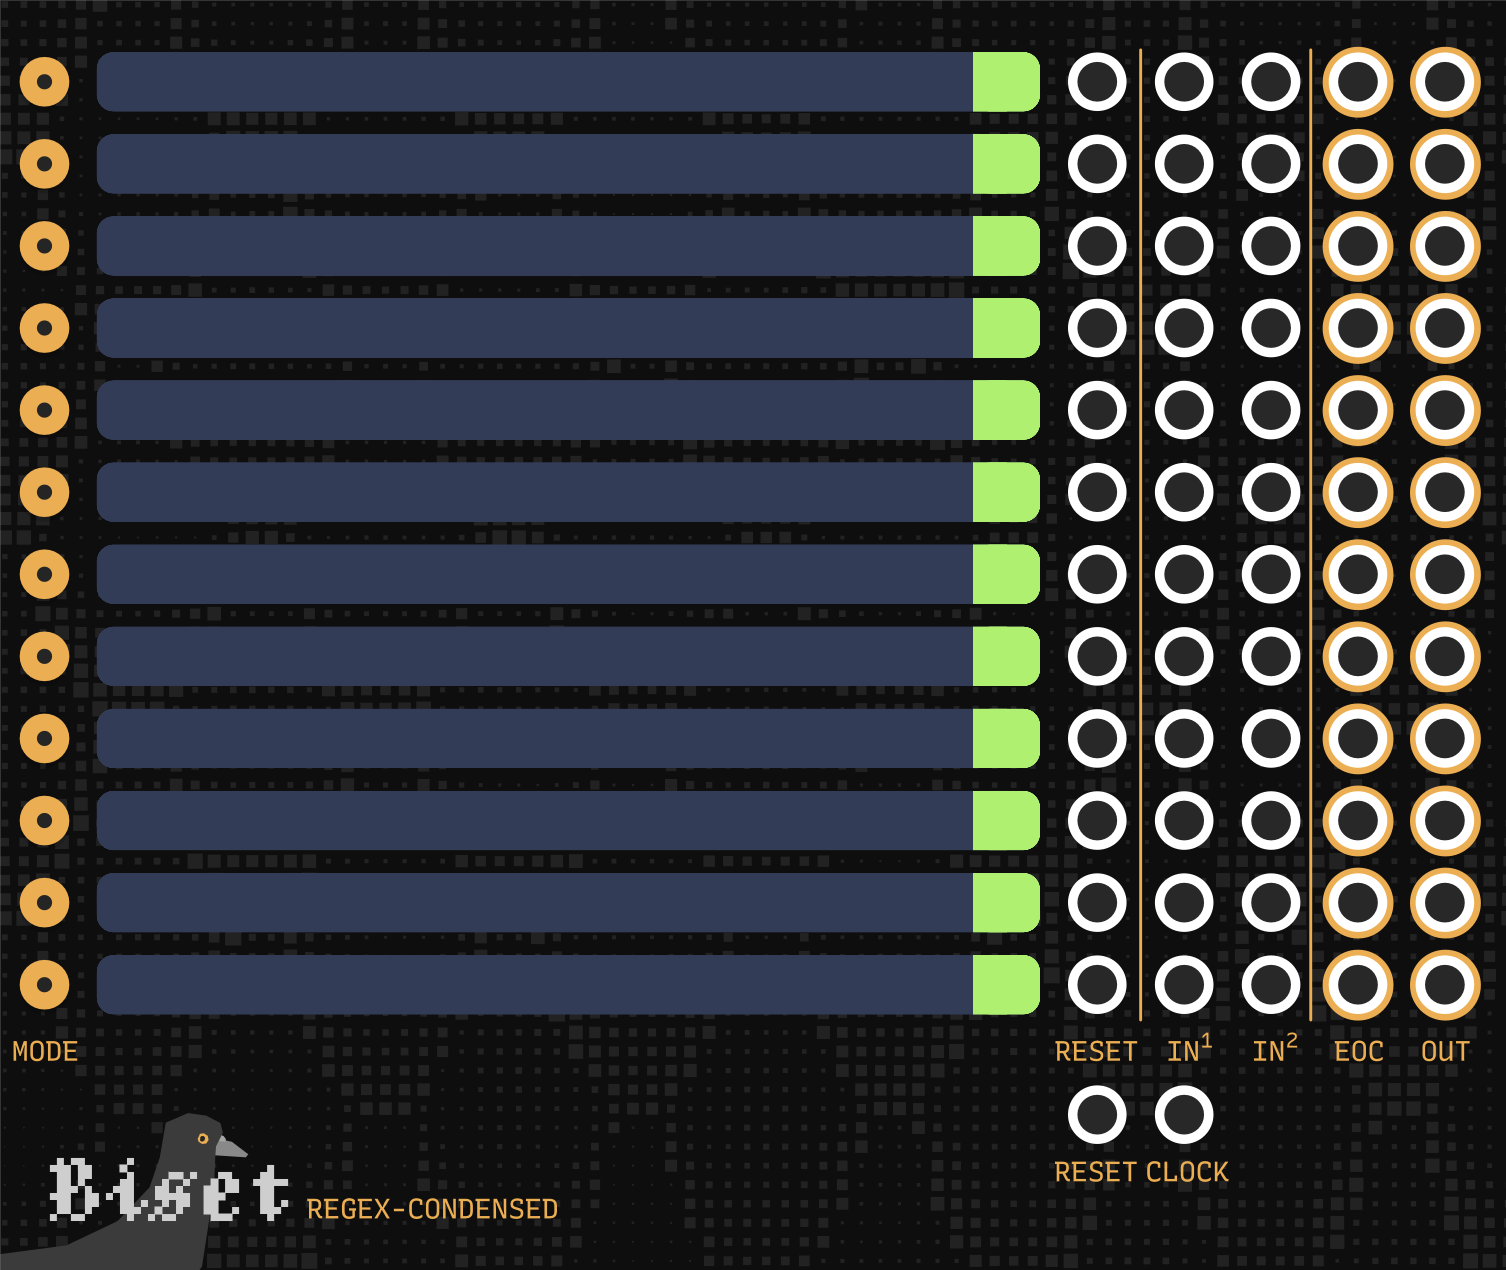
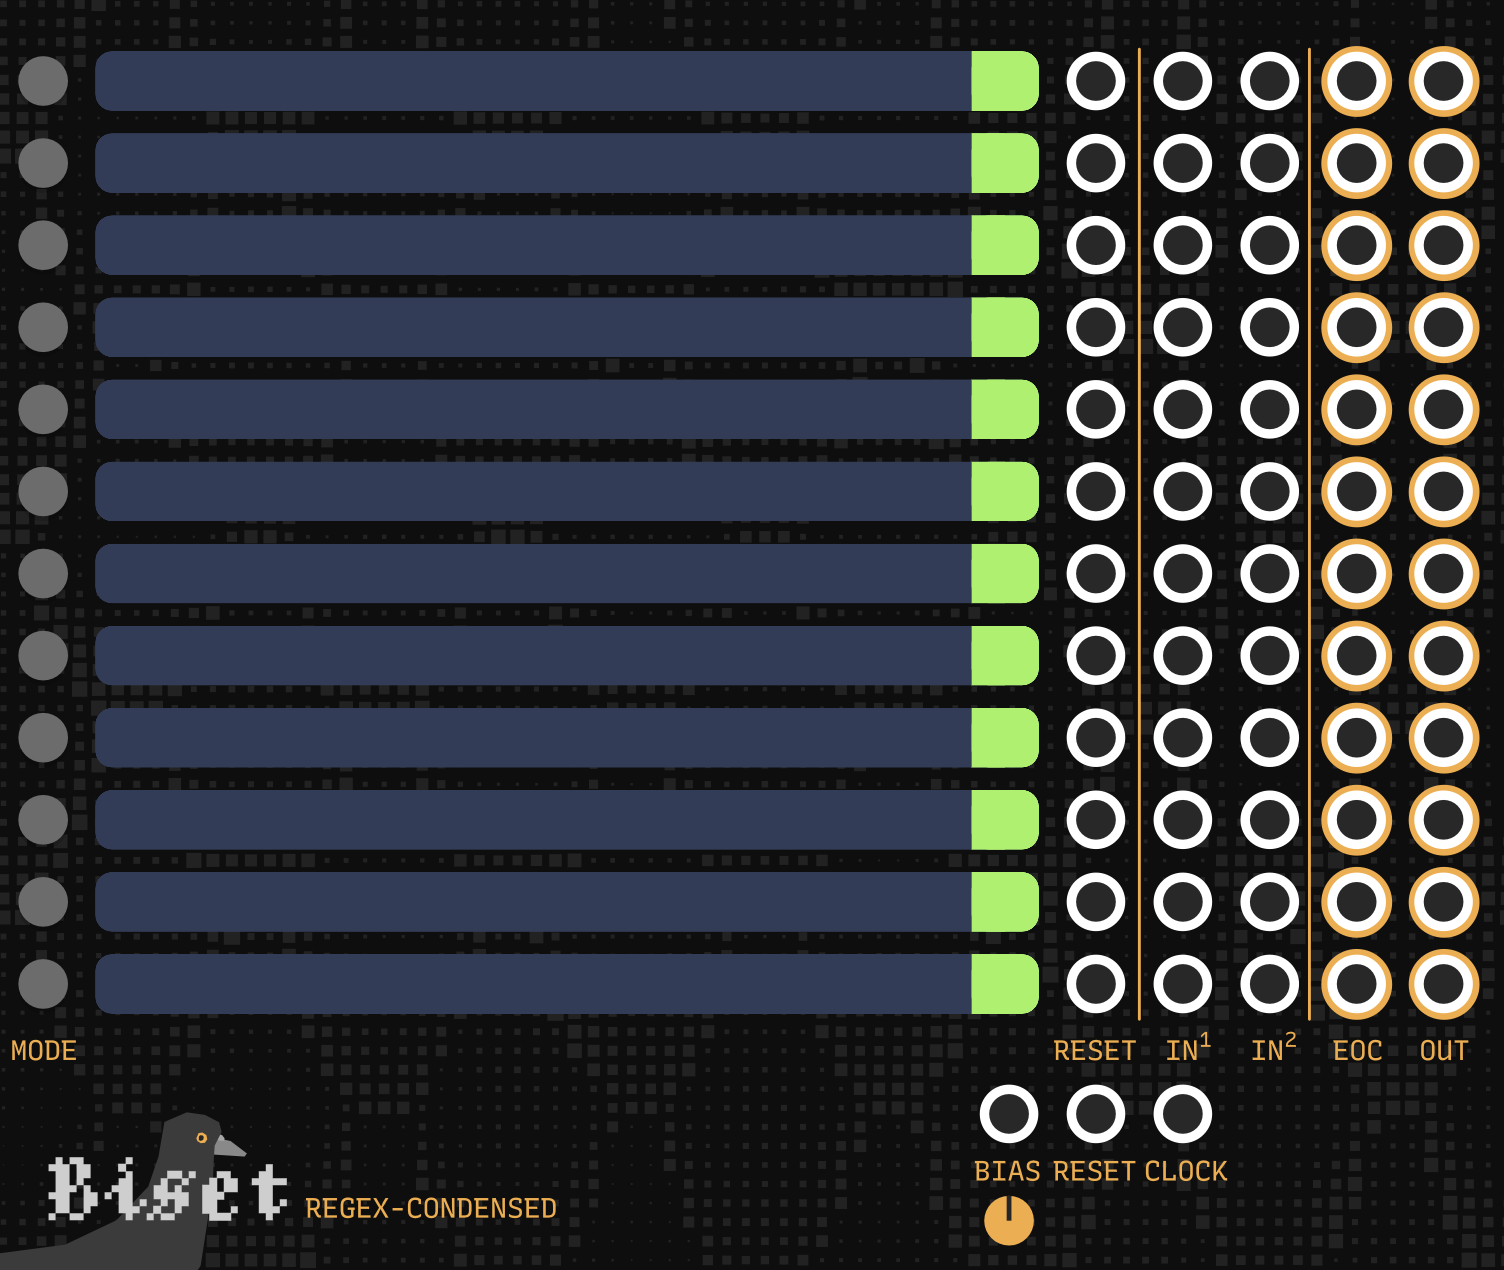
[~]Segfault: can now work without gate input

diff --git a/src/Segfault/Segfault.cpp b/src/Segfault/Segfault.cpp
@@ -51,7 +51,9 @@ void Segfault::process(const ProcessArgs& args) {
 	int		len;
 	int		i;
 
+	/// PITCH CONNECTED
 	if (this->inputs[INPUT_PITCH].isConnected()) {
+		/// GATE CONNECTED
 		if (this->inputs[INPUT_GATE].isConnected()) {
 			len = this->inputs[INPUT_PITCH].getChannels();
 			this->outputs[OUTPUT_GATE].setChannels(len);
@@ -85,7 +87,23 @@ void Segfault::process(const ProcessArgs& args) {
 					this->outputs[OUTPUT_GATE].setVoltage(0.0, i);
 				}
 			}
+		/// GATE NOT CONNECTED
 		} else {
+			len = this->inputs[INPUT_PITCH].getChannels();
+			for (i = 0; i < 12; ++i)
+				this->outputs[OUTPUT_GATE_KEY + i].setVoltage(0.0);
+			for (i = 0; i < len; ++i) {
+				/// GET PITCH
+				pitch = this->inputs[INPUT_PITCH].getVoltage(i);
+				if (pitch >= 0)
+					pitch_oct = fmod(pitch, 1.0) * 12.0;
+				else
+					pitch_oct = (12 + (int)(fmod(pitch, 1.0) * 12.0)) % 12;
+				/// GET BYPASS
+				bypass = this->params[PARAM_BYPASS + pitch_oct].getValue();
+				/// SET KEY GATE
+				this->outputs[OUTPUT_GATE_KEY + pitch_oct].setVoltage(10.0);
+			}
 		}
 	}
 }

diff --git a/README.md b/README.md
@@ -1,7 +1,34 @@
 
 # Biset
 
-**Biset** sequencing modules.
+**Biset** sequencing / performing modules.
+
+## Segfault
+
+![Segfault](./doc/shot-segfault.png)
+
+**Segfault** is designed to be used with **VCV - Midi to CV** module while
+performing on your Qwerty or Midi keyboard.
+It allows you to send triggers on specific notes and to disable some of them.
+
+It might sound weird but it actually allows you to **rethink your keyboard
+layout** !
+
+As an **exemple**, I **disable all the black keys** and use them as **triggers**
+to activate other things on my patch.
+The **remaining white keys**, which make up the **major scale**, can then be
+quantized to any other **7 notes scale** (so most of the scales).
+I can then play any 7 notes scale only with the **white keys** and use the
+**black keys** gates / triggers to change the synth, the scale / quantizer or
+anything else :)
+
+Of course, you can use it in a different way. Like by using the notes triggers
+to activate a different synth for every note.
+
+**Segfault** takes **pitch** and **gate** (polyphonic) as input and outputs the
+modified gate (if needed).
+
+If the **gate** input is not provided, it is considered up by default.
 
 ## Regex & Regex-Condensed
 
